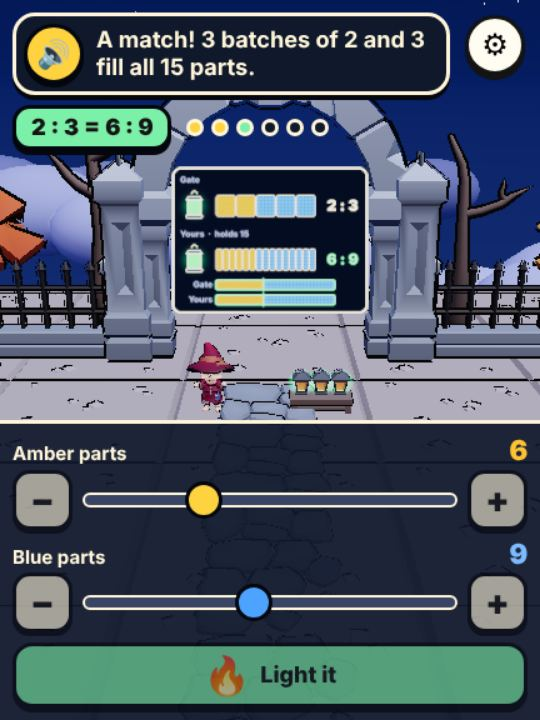
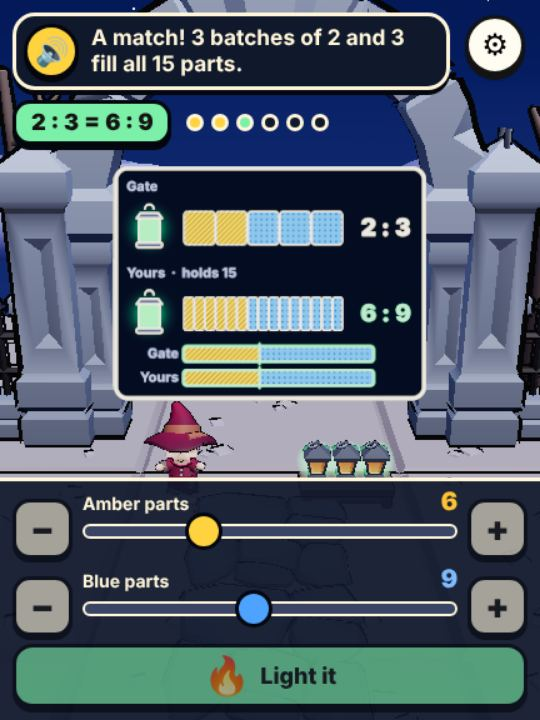
Number Quest Pro Unit 1: pictures, README and decisions entry, tighter layout pins
Claude-Session: https://claude.ai/code/session_013fJHoNyx7YpmiySDgm2YvR

diff --git a/tests/unit/lantern-mix.test.js b/tests/unit/lantern-mix.test.js
@@ -5,10 +5,10 @@
 //     exactly kit2ImportMap() (so a library bump that leaves the game behind fails here);
 //   - its rounds (the pure block between lantern-mix:begin and lantern-mix:end): six a chapter, the same first lap
 //     every time, and EVERY plan the dials allow judged here independently from what the board draws: a mix by its
-//     ratio (cross-multiplied, never by colour), a rate by the unit rate, a percent by the part and the whole. A wrong
+//     ratio (cross-multiplied, never by color), a rate by the unit rate, a percent by the part and the whole. A wrong
 //     plan names its mistake and gets the game's own hint lines;
-//   - colour is never the only signal: equal ratios give the same glow, different ratios differ, the judge never reads
-//     a colour, and every gauge is patterned and numbered;
+//   - color is never the only signal: equal ratios give the same glow, different ratios differ, the judge never reads
+//     a color, and every gauge is patterned and numbered;
 //   - its words: every line it says is one of its own registered lines (the AI-voice allowlist), what the chip, the
 //     board and the dials show is never sent to be spoken, and nothing is bought, sold or priced;
 //   - its registration: seeded, in the Number Quest course, tagged chapter by chapter with the codes units.json gives
@@ -250,7 +250,7 @@ test('rounds: six a chapter, the first lap always the same, and every plan the d
 });
 function gcd(a, b) { while (b) [a, b] = [b, a % b]; return a; }
 
-test('colour is never the only signal: a match is decided by the ratio, equal ratios glow the same, and every gauge is patterned and numbered', () => {
+test('color is never the only signal: a match is decided by the ratio, equal ratios glow the same, and every gauge is patterned and numbered', () => {
   // the glow is a function of the ratio alone
   assert.deepEqual(LM.glow(2, 3), LM.glow(4, 6)); assert.deepEqual(LM.glow(2, 3), LM.glow(200, 300)); assert.deepEqual(LM.glow(6, 9), { p: 2, q: 3, hue: 145.8, css: 'hsl(145.8, 100%, 60%)' });
   assert.notDeepEqual(LM.glow(2, 3), LM.glow(3, 2)); assert.equal(LM.glow(0, 0), null); assert.equal(LM.glow(-1, 2), null);
@@ -265,21 +265,21 @@ test('colour is never the only signal: a match is decided by the ratio, equal ra
   assert.ok(hues.size > 200, `${hues.size} different glows on the dials`);
   // more amber is always a warmer hue (toward 42), more blue a cooler one (toward 215)
   assert.ok(LM.glow(3, 2).hue < LM.glow(1, 1).hue && LM.glow(1, 1).hue < LM.glow(2, 3).hue);
-  // the judge works from the numbers: it never asks for a glow, a hue or a colour
+  // the judge works from the numbers: it never asks for a glow, a hue or a color
   const judges = PURE.slice(PURE.indexOf('function judgeMix'), PURE.indexOf('/* ---- rate'));
-  assert.match(judges, /side = a \* q - b \* p/, 'cross-multiplied whole numbers: no rounding, no colour');
+  assert.match(judges, /side = a \* q - b \* p/, 'cross-multiplied whole numbers: no rounding, no color');
   assert.doesNotMatch(judges, /glow\(|hue|css|hsl|color|colour/i);
   assert.doesNotMatch(PURE.slice(PURE.indexOf('function judge(')), /glow\(|hue|css/);
   // what the player sees: amber parts are striped and blue parts are dotted (drawn, not only tinted), each gauge has
   // its count written beside it, and the two glows are also compared as bars
-  assert.match(HTML, /Colour is never the only signal: amber is striped, blue is dotted, an empty slot is an outline/);
+  assert.match(HTML, /Color is never the only signal: amber is striped, blue is dotted, an empty slot is an outline/);
   assert.match(HTML, /if \(tone === 'a'\) for \(let i = -h; i < w; i \+= 17\)[^\n]*X\.stroke\(\)/, 'stripes on amber');
   assert.match(HTML, /else for \(let i = 10; i < w; i \+= 18\)[^\n]*X\.arc\(/, 'dots on blue');
   assert.match(HTML, /text\(`\$\{a\} : \$\{b\}`/, 'the plan in numbers beside its gauge');
   assert.match(HTML, /share\(230, 590, 620, 50, p, q,[^\n]*share\(230, 668, 620, 50, a, b,/, 'the gate and the plan as two bars');
   // the dials are named in words (Amber parts, Blue parts), and their values are numbers
   assert.equal(T['dial.amber'], 'Amber parts'); assert.equal(T['dial.blue'], 'Blue parts');
-  // the hints say which way the glow is off in words, never "the wrong colour"
+  // the hints say which way the glow is off in words, never "the wrong color"
   for (const k of ['x.hint.amber', 'x.hint.blue', 'x.hint.side.amber', 'x.hint.side.blue']) assert.match(T[k], /amber|blue/);
 });
 
@@ -596,7 +596,7 @@ test('keyboard, phones and reduced motion: every dial works from the keyboard an
   // sits between the words and the workbench with nothing of the hollow in front of it, and the lamplighter and the
   // rack never cover any of it; the smallest number or word on it is big enough to read. The same holds with a hint
   // showing (the hint box sits over the workbench, and the board moves up to clear it).
-  const SIZES = [[1280, 800, 'no-preference', false, 420, 16], [390, 844, 'no-preference', true, 330, 11.5], [360, 640, 'reduce', true, 250, 9]];
+  const SIZES = [[1280, 800, 'no-preference', false, 500, 20], [390, 844, 'no-preference', true, 330, 12], [360, 640, 'reduce', true, 270, 11]];
   for (const [width, height, reducedMotion, touch, wide, small] of SIZES) {
     for (const chapter of CHAPTERS) {
       const m = await open({ params: `chapter=${chapter}&lock=1`, width, height, reducedMotion, touch });

diff --git a/seed-games/lantern-mix.html b/seed-games/lantern-mix.html
@@ -11,7 +11,7 @@
        percent (1.3) fill a tank to a percent, name the percent a tank is full, find the whole tank from a part and
                      its percent, change kilometers, liters and hours into smaller units, and count the lanterns a
                      path needs.
-     A match is decided by the ratio (LanternMix.judge), never by the colour on screen, and colour is never the only
+     A match is decided by the ratio (LanternMix.judge), never by the color on screen, and color is never the only
      signal: every lantern has a parts gauge (amber is striped, blue is dotted) with its numbers. Read-aloud is on by
      default: every instruction, hint and answer line is shown and spoken (BRB.speak, the shared path; the speaker
      button says it again). No timer, no lives, no fail state, nothing bought or sold: a wrong plan lights the wrong
@@ -160,7 +160,7 @@
   function between(r, lo, hi) { return lo + Math.floor(r() * (hi - lo + 1)); }
   function L(key, vars) { return [key, vars || {}]; }
   function gcd(a, b) { while (b) { var t = a % b; a = b; b = t; } return a; }
-  /** The glow of a mix of `a` parts amber and `b` parts blue: its ratio in lowest terms and the colour that ratio
+  /** The glow of a mix of `a` parts amber and `b` parts blue: its ratio in lowest terms and the color that ratio
    *  alone gives (amber through green to blue), so 2 : 3 and 4 : 6 are the same glow to the last digit. */
   function glow(a, b) {
     if (!(a >= 0) || !(b >= 0) || a + b === 0) return null;
@@ -710,7 +710,7 @@ function line(x0, y0, x1, y1, color = FG, width = 6, dash) { X.save(); X.strokeS
 /** A number in a rounded badge: the player's plan (yellow), a result (green or red). */
 function badge(s, px, py, size, fill = SUN) { X.font = `900 ${size}px "Bricolage Grotesque", system-ui, sans-serif`; const w = Math.max(size * 1.5, X.measureText(s).width + size * 0.7); fillStroke(rr(px - w / 2, py - size * 0.72, w, size * 1.44, size * 0.4), fill, '#05070f', 5); text(s, px, py + size * 0.04, size, { weight: 900, fill: '#141414' }); }
 const num = v => String(Math.round(v * 100) / 100);
-/** One part of a gauge. Colour is never the only signal: amber is striped, blue is dotted, an empty slot is an outline. */
+/** One part of a gauge. Color is never the only signal: amber is striped, blue is dotted, an empty slot is an outline. */
 function cell(x0, y0, w, h, tone) {
   const p = rr(x0 + 2, y0 + 2, w - 4, h - 4, Math.min(12, w * 0.22));
   if (tone === 'e') { X.save(); X.setLineDash([10, 8]); fillStroke(p, null, DIM, 4); X.restore(); return; }
@@ -725,7 +725,7 @@ function gauge(x0, y0, w, h, a, b, slots = 0) {
   const n = Math.max(a + b, slots, 1), cw = Math.min(h, w / n);
   for (let i = 0; i < n; i++) cell(x0 + i * cw, y0, cw, h, i < a ? 'a' : i < a + b ? 'b' : 'e');
 }
-/** A lantern, lit in a glow's colour or dark. */
+/** A lantern, lit in a glow's color or dark. */
 function lampPic(cx, cy, k, color) {
   if (color) { const gr = X.createRadialGradient(cx, cy, 8 * k, cx, cy, 92 * k); gr.addColorStop(0, color); gr.addColorStop(1, 'rgba(16,24,43,0)'); X.save(); X.globalAlpha = 0.75; X.fillStyle = gr; X.fillRect(cx - 95 * k, cy - 95 * k, 190 * k, 190 * k); X.restore(); }
   const cap = new Path2D(); cap.moveTo(cx - 26 * k, cy - 46 * k); cap.lineTo(cx + 26 * k, cy - 46 * k); cap.lineTo(cx + 38 * k, cy - 30 * k); cap.lineTo(cx - 38 * k, cy - 30 * k); cap.closePath();
@@ -970,7 +970,7 @@ g.renderer.domElement.addEventListener('pointerdown', ev => {
 const scr = p => { const r = g.renderer.domElement.getBoundingClientRect(), q = p.clone().project(g.camera); return [(q.x + 1) / 2 * r.width + r.left, (1 - q.y) / 2 * r.height + r.top]; };
 
 /* ---------- the stage: the board, and the lanterns on the rack ---------- */
-// A lantern's glow: a soft round light in the colour its plan made (a sprite, so it costs nothing and never blinds).
+// A lantern's glow: a soft round light in the color its plan made (a sprite, so it costs nothing and never blinds).
 const haloTex = (() => { const c = document.createElement('canvas'); c.width = c.height = 128; const x = c.getContext('2d'), gr = x.createRadialGradient(64, 64, 4, 64, 64, 62); gr.addColorStop(0, 'rgba(255,255,255,1)'); gr.addColorStop(0.35, 'rgba(255,255,255,0.55)'); gr.addColorStop(1, 'rgba(255,255,255,0)'); x.fillStyle = gr; x.fillRect(0, 0, 128, 128); return new THREE.CanvasTexture(c); })();
 function rackLamp(i, css, trial) {
   const o = new THREE.Group(), body = PT.lantern.clone(true), halo = new THREE.Sprite(new THREE.SpriteMaterial({ map: haloTex, color: new THREE.Color(css), transparent: true, depthWrite: false, blending: THREE.AdditiveBlending, fog: false }));

diff --git a/seed-lessons/number-quest/README.md b/seed-lessons/number-quest/README.md
@@ -709,6 +709,9 @@ read-aloud; the admin's preview.
 Unit 7 has four chapters: the fourth, `clock`, is the finale. No two units in a row share a world. A reserved game slug
 is a name only: nothing is registered for it, and no file exists.
 
+**Built so far:** Unit 1, The Mixing Tower, with Lantern Mix (2026-11-14; see "Pro Unit 1" at the end of this file). Its
+`planned` and `reserved` flags are gone from `units.json`; the other six units are still planned.
+
 ### The 23 steps and their codes (final: a unit PR changes none of this)
 
 | Step | Title | `order` | Primary | Also covers | MP |
@@ -893,3 +896,73 @@ card, the teacher page's units, map and counts, the placement matrix and explain
 "Just Play" follow the data. What the opening PR still writes by hand: the course copy in the 13 locale files (two
 streets, kindergarten to grade 5, the game list, the lock paragraph, the FAQ), the teacher page's list of what Pro
 does not cover (from `proCoverage`), `units.json` `program.standards`, and a decisions entry.
+
+## Pro Unit 1 — The Mixing Tower (2026-11-14, tier still `building`)
+
+The first Pro unit, built to the contract above ("What a unit PR touches"). Grade 6 ratios and rates: 6.RP.A.1 to
+6.RP.A.3d. Pro stays closed: only the platform admin can open these steps.
+
+| File | What |
+|---|---|
+| `course/pro/1.1.json`, `1.2.json`, `1.3.json` | the three decks, inside the Pro limits above: **1.1 Ratios and equal mixes** (6.RP.A.1, 6.RP.A.3a), **1.2 Unit rates** (6.RP.A.2, 6.RP.A.3b), **1.3 Percent and changing units** (6.RP.A.3c, 6.RP.A.3d). Seven slides each: a story slide with Tally, four drawn diagrams with guided focus (one of them the worked example), four words, the mission last |
+| `sets/u1-pro.json` | nine exit items (`nq-pro-1.<s>-e1..3`), each `cat` one of its step's primary codes, four choices, every distractor tagged with the misconception that produces it (kept the difference instead of the ratio, read a percent as an amount, multiplied without finding the rate for 1, converted and stopped) |
+| `units.json` | Unit 1's own object only: the flags deleted, `tool: "lantern-mix"`, each step's `game.pro`, three teacher notes |
+| `seed-games/lantern-mix.html` | **Lantern Mix**, the unit's game (Oomba3D 1.2.0, Spooky Hollow theme 1.0.0, at night): chapter `mix` for 1.1 (Match the Glow), `rate` for 1.2 (Burn Rate), `percent` for 1.3 (Fill and Convert), six rounds each. Lesson mode is `chapter=<id>&lock=1`; the sixth right round reports game over (won), which completes the step |
+
+**Plan, then run.** The player sets one or two dials (a slider with a minus and a plus button each; nothing is typed),
+then presses Light it. The plan is run whatever it is: a right plan leaves a lit lantern on the rack, and a wrong one
+lights a small trial lantern in the glow the plan really made, the board shows the plan's result (the two mixes as
+shares of amber, where the amount really lands on the double number line, the percent the level really is, the stretch
+of path the lanterns really light) and a spoken hint names the mistake. The round stays open. No timer, no lives, no
+score, no reward currency; nothing is bought, sold or priced.
+
+**What each chapter plays.** `mix`: copy the gate lantern's 2 : 3 (any equal ratio matches, so 4 : 6 is right), the
+same glow with the amber set to 6 (6 : 7, the difference kept, is named as adding), a lantern that holds 15 parts
+(the ratio and the total together), the missing lantern of a five-column ratio table, working back from a set amount
+of blue, and "use all 10 parts and glow more amber than the gate" (several plans are right; an equal ratio is not
+"more"). `rate`: 12 ml in 4 hours as a rate for 1 hour, a tank for 7 hours at 3 ml an hour, 6 ml in 4 hours stretched
+to 10 hours (the plan's own example: the unit rate is 1.5), how many hours 20 ml lasts, two lanterns' unit rates
+compared, and a steady walking pace (150 m in 3 minutes, how far in 8). `percent`: 50% of 80 ml and 30% of 250 ml (30
+ml is named as reading the percent as an amount), what percent 50 of 200 ml is, the full tank when 20 ml is 25%,
+2.5 km in meters (liters and hours on replays), and how many lanterns light 3 km at 250 m each. The first lap is
+always the same; a replay draws new numbers from a seeded generator.
+
+**Color is never the only signal.** A match is decided by the ratio (`LanternMix.judge` cross-multiplies whole
+numbers; it never reads a color). `LanternMix.glow(a, b)` gives a mix its hue from the ratio in lowest terms, so equal
+ratios glow identically and no two different ratios on the dials share a hue. On the board amber parts are striped and
+blue parts are dotted, every gauge has its count beside it, and after a run the two mixes are also drawn as bars. The
+test judges every plan the dials allow (over 100,000 of them) independently from the board's numbers.
+
+**Read-aloud is on by default** (owner decision 6): every instruction, hint and answer line goes through `BRB.speak` in
+the friendly voice, with the speaker button to say it again. Spoken lines spell units out (milliliters, meters,
+percent); the chip, the board and the dials use the short forms and are never read (`server/services/tts-lines.js`).
+
+**Kid-safe.** The hollow is a quiet night garden with a work light: the theme's ground, path, arch, fences, trees,
+pumpkin lanterns and candles. No animals, no physics, nothing that moves by itself, chases or blocks; the heroes are
+three of the theme's friendly skeleton pals and two adventurers. The game's page never names the Pro tier.
+
+**Layouts.** One board, always face on, 4 by 3. On a wide screen the lamplighter and the lantern rack stand either
+side of it and the workbench is one row; on a phone they stand under it and the dials stack; on a short phone the
+camera keeps the board big and holds only the lamplighter's head and the lanterns on the rack. The test holds the
+board in full view between the words and the workbench at 1280, 390 and 360 px, every control to 44 px or more, and
+the smallest words on the board to a readable size, also with a hint showing and with reduced motion.
+
+**Diagrams.** The unit adds no diagram type. 1.1 uses `bars` (a tape diagram, and two mixes of 10 parts), `double` and
+`table`; 1.2 `double` (twice), `table` and `chart`; 1.3 `split`, `bars` (a percent bar in tenths, and a part with its
+whole) and `double` (kilometers over meters). All 26 focus steps are measured and pinned in
+`tests/unit/number-quest-guided-focus.test.js`.
+
+**Pictures.** The three mission slides carry `nq/lantern-mix/<state>` phone-width captures (`scripts/nq-shots.js`,
+shots marked `tier: 'pro'`; manifest entries with `band: "pro"`). Cover and share picture:
+`scripts/covers/lantern-mix.recipe.js`.
+
+**Registered** as the contract lists: `scripts/seed.js`, `server/db.js`, `server/learn.js` (math, grade 6),
+`server/services/course-catalog.js`, `server/standards/official-tags.js` (`LANTERN_CHAPTERS`, `LEVELLED`),
+`server/services/tts-lines.js`, and the pinned lists and totals in the tests it names. Not touched: `standards.json`,
+`placement.json`, the Sorting Game bank, any other unit, and the course copy. **Left for the opening:** the teacher
+page's game list (`NQ_CREW` in `server/routes/number-quest.js`) and its locale strings do not name Lantern Mix yet, so
+the admin's preview of that page counts the game's steps but does not list the game.
+
+**Gear.** The unit's stamp is the Ratio Gear (`tiers.pro.stones`). **Teacher notes** (three) say what the unit covers,
+the "kept the difference, not the ratio" misconception (and a percent read as an amount), and how the game checks each
+idea by planning and running. Pro stays `status: "building"`.

diff --git a/docs/decisions.md b/docs/decisions.md
@@ -5098,3 +5098,45 @@ new build. Two other uploads are NOT used: `amir-forest-nature-pack` (its licenc
 - **No animals in this version.** Oomba3D 1.2.0 can show them; woodland animals join as a new theme version.
 - **Not verified:** a real GPU or Chromebook (software WebGL only), sound by ear, a build with the real model, and the
   walk of a whole level by hand on a phone. The cover's bridge stands at the right edge of the picture.
+
+## Number Quest Pro Unit 1: The Mixing Tower and Lantern Mix (14 Nov 2026)
+
+The first Pro unit, built to the unit contract in `seed-lessons/number-quest/README.md` ("What a unit PR touches"):
+three decks, nine exit items, the game Lantern Mix in Spooky Hollow at night, and the one-line registrations. Pro stays
+`building`; nobody but the platform admin can open a Pro step. Where the build left the plan, and why:
+
+- **Read-aloud is on by default**, with the speaker button to repeat a line. The plan said a button, off by default;
+  the owner's decision 6 replaced that.
+- **Oomba3D 1.2.0**, the newest, not the 1.1.0 the plan named (it was written before 1.2.0 shipped). No kit file
+  changed and no helper was added to the library: the dials, the board and the camera fit are the game's own code.
+- **Plan, then run.** The plan had a double number line that "fills as the player works". A board that shows the
+  outcome while a dial is turning invites sliding until it looks right, so the board shows only the plan (the parts
+  poured, the amount set) until Light it is pressed. Then the plan is run, right or wrong, and its real result is
+  drawn: the two mixes as shares of amber, where the amount lands on the number line, the stretch of path lit.
+- **A match is decided by the ratio.** `LanternMix.judge` cross-multiplies whole numbers and never reads a colour;
+  the glow's hue is a function of the ratio in lowest terms, so equal ratios glow identically. Colour is never the
+  only signal: amber parts are striped, blue parts dotted, and every gauge has its numbers beside it.
+- **Dials** are a slider with a minus and a plus button (a native range input, so the arrow keys and touch work with
+  no extra code). At most 50 stops a dial. Nothing is typed.
+- **Rounds the plan did not list**, added so each chapter has six and each code is played more than one way: working
+  back from the other oil, "use all 10 parts and glow more amber than the gate" (comparing ratios, several right
+  plans), two lanterns' unit rates compared, a steady walking pace (constant speed, 6.RP.A.3b), what percent a tank
+  is full, and the whole tank from a part and its percent (6.RP.A.3c names all three).
+- **"Lanterns every 250 m along 3 km"** became "one lantern lights 250 m of the path". Posts at each end make the
+  plan's wording 12 or 13 depending on how it is read; a stretch of path lit by each lantern is 12 with no argument.
+- **The ratio table** is a round of its own (the missing lantern of five), not a second task inside the 15-part round.
+- **Contexts are neutral** (decision 3): oil, burning time, distance. No prices, tax, discount, interest or commission
+  in the decks, the bank or the game, and the game uses neither the theme's coin nor its chest: there is no reward
+  currency, only a rack of six lit lanterns.
+- **A built unit's entry profile is live in the engine.** `P.testOutItems(1, _, 'pro')` now deals items, because
+  Unit 1 is no longer planned. The route still refuses a Pro test-out and placement still lands nobody on Pro while the
+  tier is building (the foundations tests hold both).
+- **Left for the opening PR:** the teacher page's game list (`NQ_CREW` in `server/routes/number-quest.js`) and its
+  locale strings do not name Lantern Mix. Adding it means new copy in 13 locale files, which the contract keeps out of
+  a unit PR. Until then the admin's preview of the teacher page shows Unit 1's steps without the game's card.
+- **Public surface.** As the contract says, the game itself is a library game from the day it is registered: it is on
+  the Learn shelf (math, grade 6) and in the Number Quest course's game list. Its title, description and tags never
+  name the Pro tier. Every Number Quest page is byte for byte what it was for anyone who is not the admin.
+- **Not verified:** a real GPU, a real phone or Chromebook (software WebGL in headless Chromium only), the AI voice by
+  ear (the test checks every line is sent and is on the allowlist, not how "1.5 milliliters" sounds), and play by a
+  student of the age.
